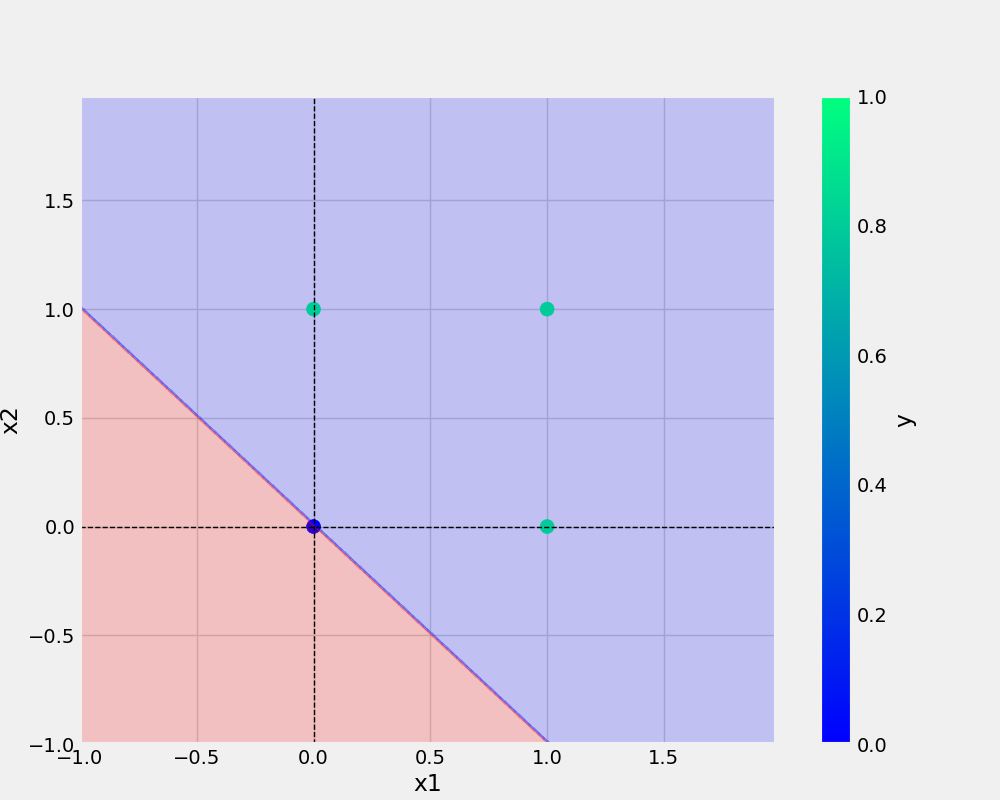
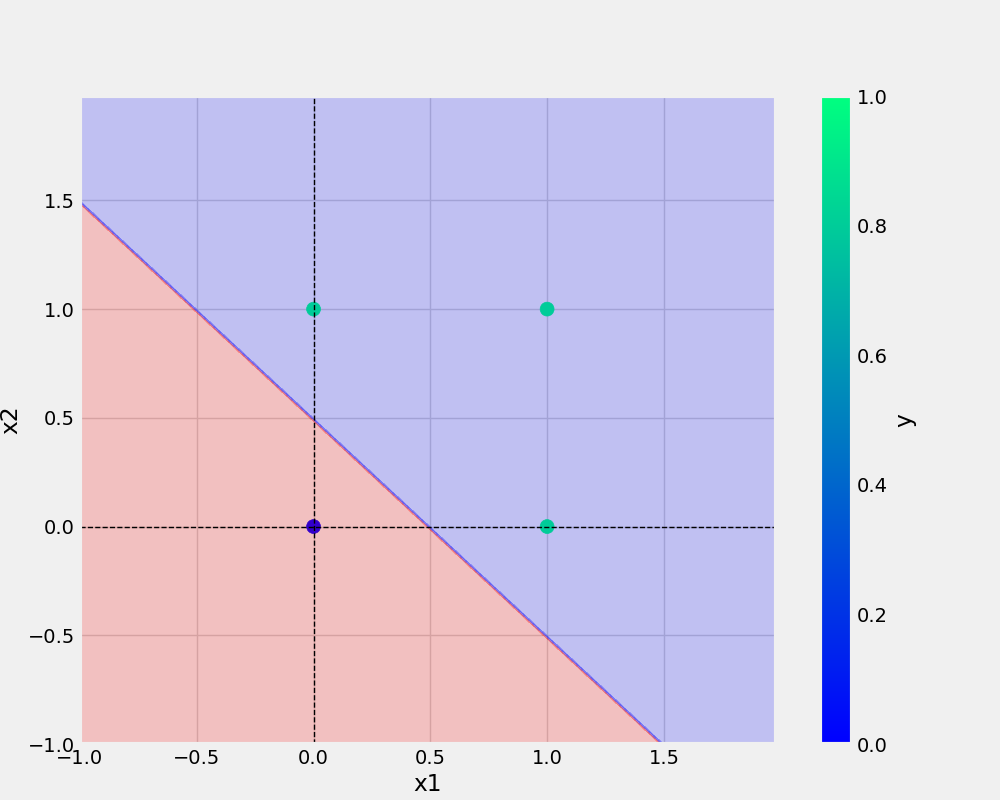
added new_Or.py and change x1 to x2 in all_units

Changed region(s): [[0.062, 0.25, 0.651, 0.9375], [0.651, 0.9375, 0.682, 0.9688]]

diff --git a/newOR.py b/newOR.py
@@ -1,0 +1,51 @@
+from  utils.all_units import save_plot
+from  utils.all_units import save_model
+# from utils.model import Perceptron
+from Perceptron.perceptron import Perceptron
+from utils.all_units import prepare_data
+import matplotlib.pyplot as plt
+import numpy as np
+import pandas as pd
+import joblib 
+from matplotlib.colors import ListedColormap
+import logging
+import os
+plt.style.use("fivethirtyeight")
+
+# logging_str = "[%(asctime)s: %(levelname)s: %(module)s] %(message)s"
+logging_str = "[%(asctime)s: %(filename)s:%(funcName)s:%(lineno)d] %(message)s"
+log_dir = "logs"
+os.makedirs(log_dir, exist_ok=True)
+logging.basicConfig(filename=os.path.join(log_dir,"or.logs"), level=logging.INFO, format=logging_str, filemode="a")
+
+def main(data, ETA, EPOCHS, filename, plotName):
+    
+
+    df=pd.DataFrame(data)
+
+
+    X,y = prepare_data(df)
+
+    model=Perceptron(eta=ETA, epochs=EPOCHS)
+
+    model.fit(X, y)
+
+    _ =model.total_loss()
+
+    save_model(model, filename)
+    save_plot(df, plotName, model)
+
+if __name__=='__main__':
+    OR= {
+    "x1":[0,0,1,1],
+    "x2":[0,1,0,1],
+    "y" :[0,1,1,1]
+    }
+    ETA = 0.3
+    EPOCHS = 10
+    try:
+        logging.info("\n>>>>> Starting training >>>>>>>>")
+        main(OR, ETA, EPOCHS, filename="or.model", plotName="or.png")
+        logging.info(">>>>> training done successfully <<<<<<")
+    except Exception as e:
+        logging.exception(e)

diff --git a/utils/all_units.py b/utils/all_units.py
@@ -62,7 +62,7 @@ def save_plot(df,file_name, model):
         x2_min, x2_max = X[:,1].min() -1, X[:,1].max() +1
         
         xx1, xx2 = np.meshgrid(np.arange(x1_min, x1_max, resolution),
-                              np.arange(x1_min, x1_max, resolution))
+                              np.arange(x2_min, x2_max, resolution))
         logging.info(xx1)
         logging.info(xx1.ravel())
         
